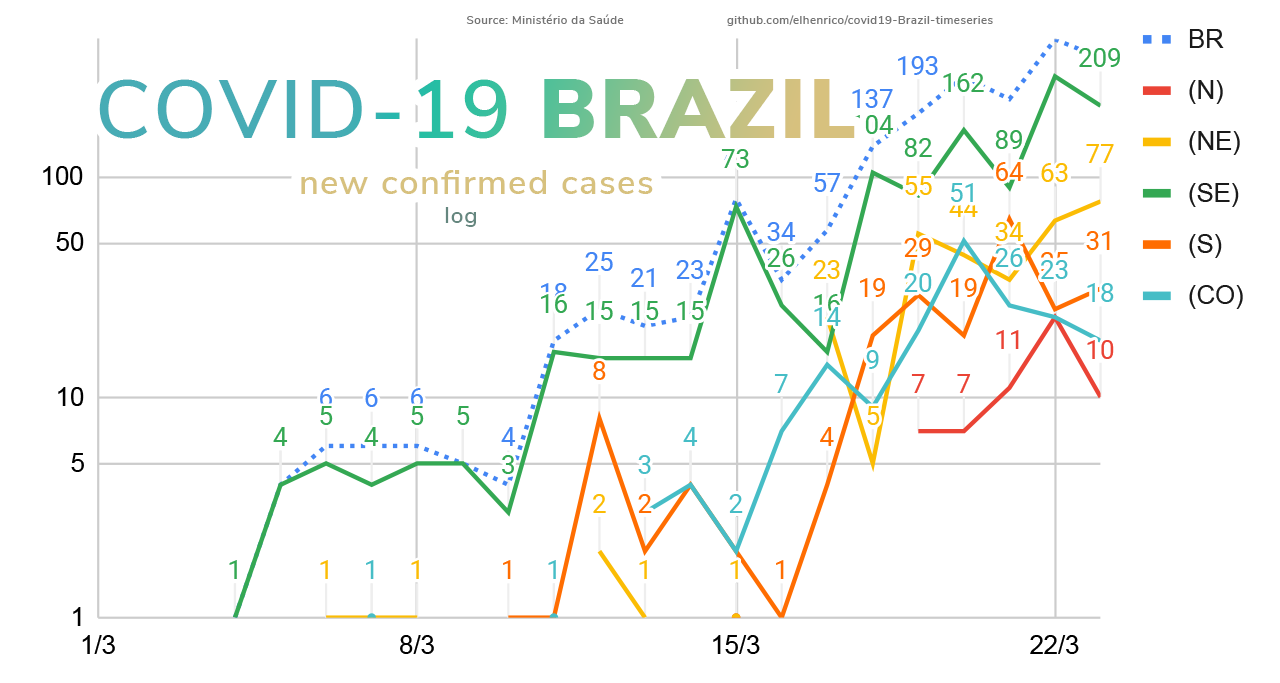
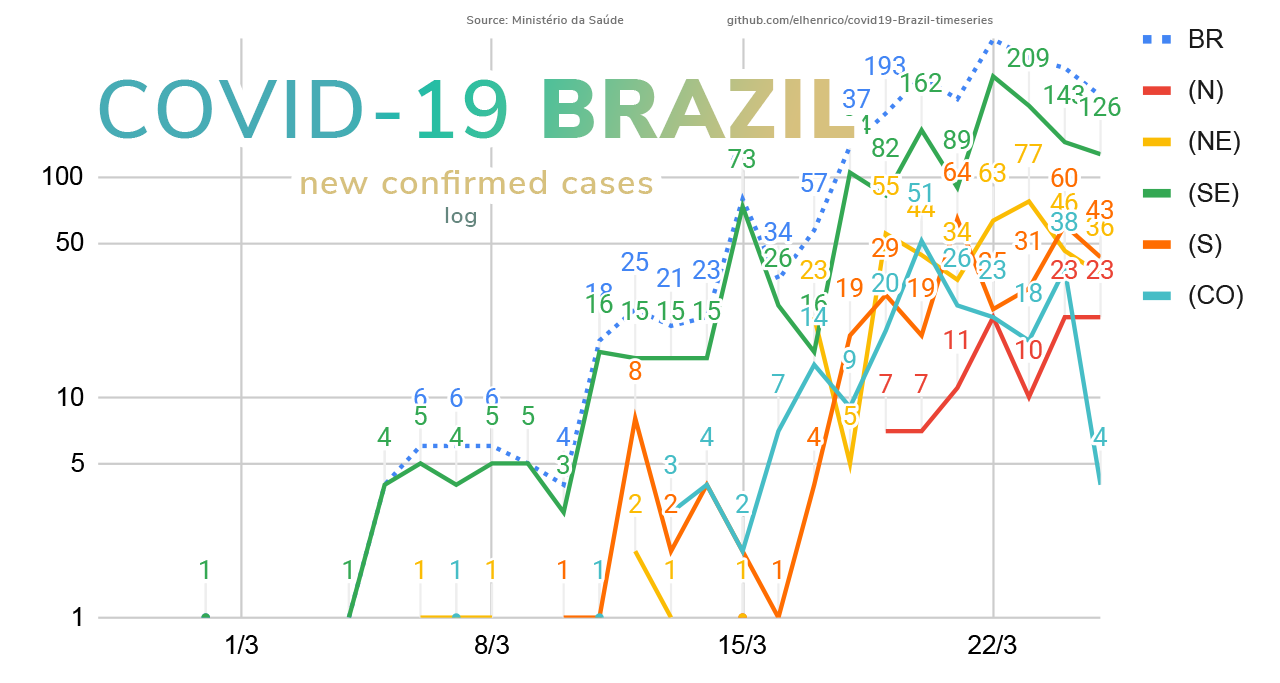
chore: Update data and charts
BREAKING CHANGE: added the first 2 cases and dates.

diff --git a/README.md b/README.md
@@ -1,9 +1,12 @@
 # COVID-19 Brazil - time series data
 
-<kbd>Latest: 23/03/2020</kbd> source: [Ministério da Saúde](http://plataforma.saude.gov.br/novocoronavirus/) official announcements
+<kbd>Latest: 25/03/2020</kbd> source: [Ministério da Saúde](http://plataforma.saude.gov.br/novocoronavirus/) official announcements
 
-### Confirmed Cases (linear) [[link to log chart](/docs/confirmed-log.png)]
+### Confirmed Cases (linear)
 ![Confirmed Linear Chart](/docs/confirmed-linear.png)
+
+### Confirmed Cases (log) 
+![Confirmed Linear Chart](/docs/confirmed-log.png)
 
 ### New Confirmed Cases (linear) [[link to log chart](/docs/confirmed-new-log.png)]
 ![New Linear Chart](/docs/confirmed-new-linear.png)
